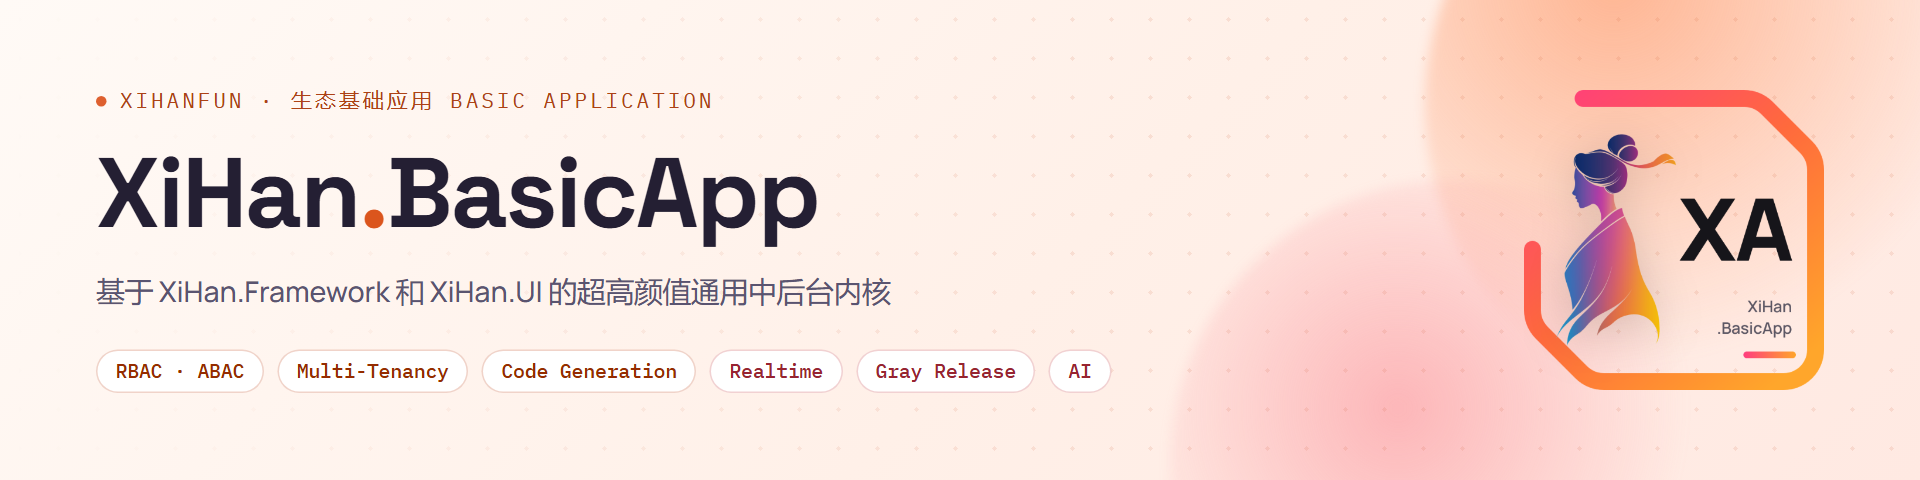
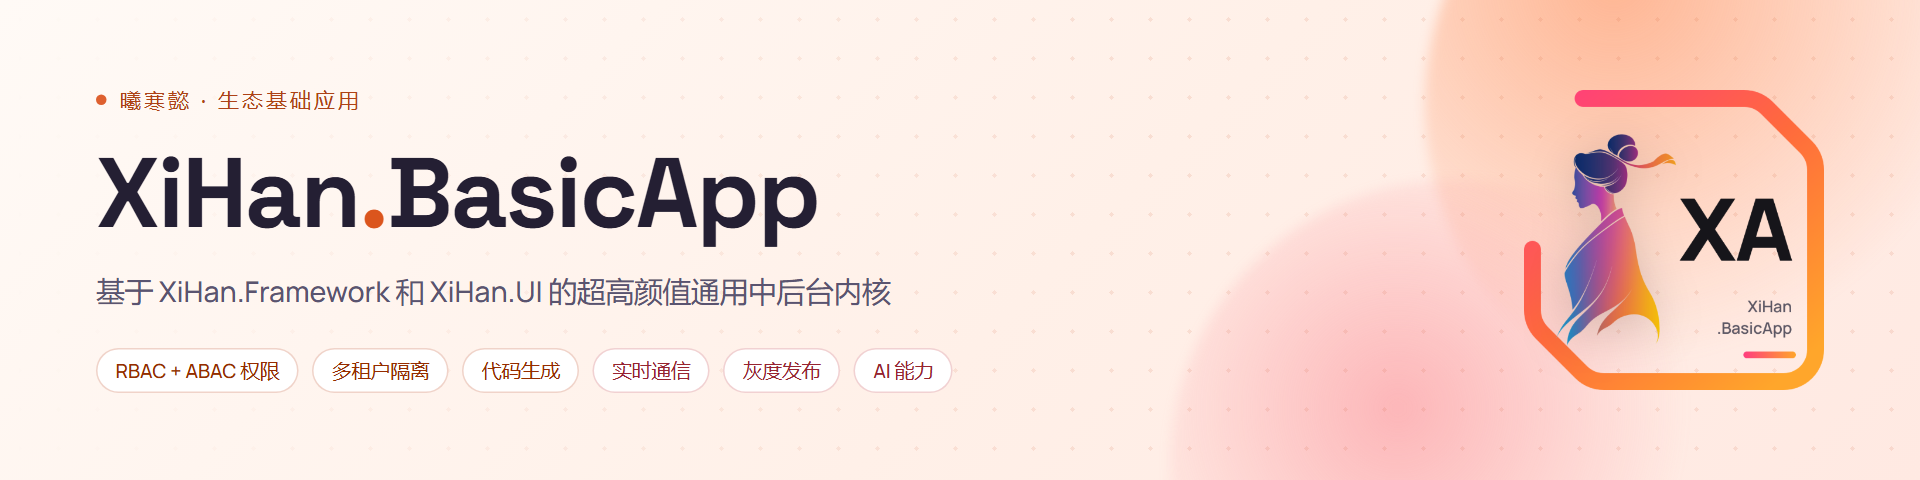
docs: 横幅改为中英文各三张：中文版生态名用曦寒懿、全中文标签，英文版另存 X?-Banner_en.png

Changed region(s): [[0.0625, 0.7188, 0.5625, 0.8125], [0.0625, 0.1875, 0.375, 0.25]]

diff --git a/other/XiHanFun-Banner.dc.html b/other/XiHanFun-Banner.dc.html
@@ -17,7 +17,7 @@
     a { color: oklch(0.55 0.18 295); }
     a:hover { color: oklch(0.48 0.19 295); }
 
-    /* 三张横幅共用一套版式，配色由各自的 data-banner 变量给出 */
+    /* 三个产品各一张中文、一张英文横幅，共用一套版式，配色由 data-banner 变量给出 */
     .banner { width: 1280px; height: 320px; position: relative; overflow: hidden; background: var(--bg); flex-shrink: 0; }
     .banner-blob { position: absolute; border-radius: 50%; filter: blur(4px); }
     .banner-blob-a { width: 420px; height: 420px; right: -90px; top: -140px; background: radial-gradient(circle at 30% 30%, var(--blob-a), transparent 62%); }
@@ -30,8 +30,11 @@
     .banner-title { font-family: 'Space Grotesk', sans-serif; font-weight: 700; font-size: 66px; line-height: 0.98; color: #241f33; letter-spacing: -0.02em; }
     .banner-title span { color: var(--accent); }
     .banner-tagline { font-size: 19px; color: var(--tagline); line-height: 1.45; font-weight: 500; }
+    .banner[data-lang="en"] .banner-tagline { font-size: 18px; }
     .banner-chips { display: flex; flex-wrap: wrap; gap: 9px; margin-top: 4px; }
-    .banner-chip { font-family: 'IBM Plex Mono', monospace; font-size: 13px; font-weight: 500; color: var(--chip-a); background: #fff; border: 1px solid var(--chip-a-line); padding: 5px 12px; border-radius: 999px; white-space: nowrap; }
+    .banner-chip { font-family: 'IBM Plex Mono', 'Microsoft YaHei UI', 'PingFang SC', monospace; font-size: 13px; font-weight: 500; color: var(--chip-a); background: #fff; border: 1px solid var(--chip-a-line); padding: 5px 12px; border-radius: 999px; white-space: nowrap; }
+    .banner[data-lang="zh"] .banner-chip { font-family: 'Manrope', 'Microsoft YaHei UI', 'PingFang SC', sans-serif; }
+    .banner[data-lang="zh"] .banner-eyebrow { font-family: 'Microsoft YaHei UI', 'PingFang SC', sans-serif; }
     .banner-chip-alt { color: var(--chip-b); border-color: var(--chip-b-line); }
     .banner-logo { flex-shrink: 0; width: 200px; height: 200px; }
     .banner-logo img { width: 100%; height: 100%; object-fit: contain; display: block; }
@@ -81,16 +84,91 @@
   </style>
 </helmet>
 
-<!-- =============== BANNER 1 · XiHan.Framework =============== -->
-<div class="banner" data-banner="framework">
+<!-- =============== 中文 · XiHan.Framework =============== -->
+<div class="banner" data-banner="framework" data-lang="zh">
   <div class="banner-blob banner-blob-a"></div>
   <div class="banner-blob banner-blob-b"></div>
   <div class="banner-dots"></div>
   <div class="banner-body">
     <div class="banner-text">
-      <div class="banner-eyebrow">XiHanFun · 生态后端基座 Backend Foundation</div>
+      <div class="banner-eyebrow">曦寒懿 · 生态后端基座</div>
       <div class="banner-title">XiHan<span>.</span>Framework</div>
       <div class="banner-tagline">快速、轻量、高效、用心的 .NET 现代模块化开发框架</div>
+      <div class="banner-chips">
+        <span class="banner-chip">.NET 原生优先</span>
+        <span class="banner-chip">模块化</span>
+        <span class="banner-chip">动态 API</span>
+        <span class="banner-chip banner-chip-alt">多租户</span>
+        <span class="banner-chip banner-chip-alt">工作流</span>
+        <span class="banner-chip banner-chip-alt">AI 与 MCP</span>
+      </div>
+    </div>
+    <div class="banner-logo">
+      <img src="logo/light/XiHan.Framework-512.png" alt="XiHan.Framework logo">
+    </div>
+  </div>
+</div>
+
+<!-- =============== 中文 · XiHan.UI =============== -->
+<div class="banner" data-banner="ui" data-lang="zh">
+  <div class="banner-blob banner-blob-a"></div>
+  <div class="banner-blob banner-blob-b"></div>
+  <div class="banner-dots"></div>
+  <div class="banner-body">
+    <div class="banner-text">
+      <div class="banner-eyebrow">曦寒懿 · 生态前端基座</div>
+      <div class="banner-title">XiHan<span>.</span>UI</div>
+      <div class="banner-tagline">快速、轻量、高效、用心的框架无关 Headless UI 组件库</div>
+      <div class="banner-chips">
+        <span class="banner-chip">设计系统</span>
+        <span class="banner-chip">多框架适配</span>
+        <span class="banner-chip">零依赖</span>
+        <span class="banner-chip banner-chip-alt">主题定制</span>
+        <span class="banner-chip banner-chip-alt">无障碍</span>
+        <span class="banner-chip banner-chip-alt">AI 组件</span>
+      </div>
+    </div>
+    <div class="banner-logo">
+      <img src="logo/light/XiHan.UI-512.png" alt="XiHan.UI logo">
+    </div>
+  </div>
+</div>
+
+<!-- =============== 中文 · XiHan.BasicApp =============== -->
+<div class="banner" data-banner="basicapp" data-lang="zh">
+  <div class="banner-blob banner-blob-a"></div>
+  <div class="banner-blob banner-blob-b"></div>
+  <div class="banner-dots"></div>
+  <div class="banner-body">
+    <div class="banner-text">
+      <div class="banner-eyebrow">曦寒懿 · 生态基础应用</div>
+      <div class="banner-title">XiHan<span>.</span>BasicApp</div>
+      <div class="banner-tagline">基于 XiHan.Framework 和 XiHan.UI 的超高颜值通用中后台内核</div>
+      <div class="banner-chips">
+        <span class="banner-chip">RBAC + ABAC 权限</span>
+        <span class="banner-chip">多租户隔离</span>
+        <span class="banner-chip">代码生成</span>
+        <span class="banner-chip banner-chip-alt">实时通信</span>
+        <span class="banner-chip banner-chip-alt">灰度发布</span>
+        <span class="banner-chip banner-chip-alt">AI 能力</span>
+      </div>
+    </div>
+    <div class="banner-logo">
+      <img src="logo/light/XiHan.BasicApp-512.png" alt="XiHan.BasicApp logo">
+    </div>
+  </div>
+</div>
+
+<!-- =============== English · XiHan.Framework =============== -->
+<div class="banner" data-banner="framework" data-lang="en">
+  <div class="banner-blob banner-blob-a"></div>
+  <div class="banner-blob banner-blob-b"></div>
+  <div class="banner-dots"></div>
+  <div class="banner-body">
+    <div class="banner-text">
+      <div class="banner-eyebrow">XiHanFun · Backend Foundation</div>
+      <div class="banner-title">XiHan<span>.</span>Framework</div>
+      <div class="banner-tagline">A fast, lightweight, efficient and thoughtfully built modern modular framework for .NET</div>
       <div class="banner-chips">
         <span class="banner-chip">.NET Native First</span>
         <span class="banner-chip">Modular</span>
@@ -106,16 +184,16 @@
   </div>
 </div>
 
-<!-- =============== BANNER 2 · XiHan.UI =============== -->
-<div class="banner" data-banner="ui">
+<!-- =============== English · XiHan.UI =============== -->
+<div class="banner" data-banner="ui" data-lang="en">
   <div class="banner-blob banner-blob-a"></div>
   <div class="banner-blob banner-blob-b"></div>
   <div class="banner-dots"></div>
   <div class="banner-body">
     <div class="banner-text">
-      <div class="banner-eyebrow">XiHanFun · 生态前端基座 Frontend Foundation</div>
+      <div class="banner-eyebrow">XiHanFun · Frontend Foundation</div>
       <div class="banner-title">XiHan<span>.</span>UI</div>
-      <div class="banner-tagline">快速、轻量、高效、用心的框架无关 Headless UI 组件库</div>
+      <div class="banner-tagline">A fast, lightweight, efficient and thoughtfully built framework-agnostic headless UI component library</div>
       <div class="banner-chips">
         <span class="banner-chip">Design System</span>
         <span class="banner-chip">Vue · React · Web Components</span>
@@ -131,16 +209,16 @@
   </div>
 </div>
 
-<!-- =============== BANNER 3 · XiHan.BasicApp =============== -->
-<div class="banner" data-banner="basicapp">
+<!-- =============== English · XiHan.BasicApp =============== -->
+<div class="banner" data-banner="basicapp" data-lang="en">
   <div class="banner-blob banner-blob-a"></div>
   <div class="banner-blob banner-blob-b"></div>
   <div class="banner-dots"></div>
   <div class="banner-body">
     <div class="banner-text">
-      <div class="banner-eyebrow">XiHanFun · 生态基础应用 Basic Application</div>
+      <div class="banner-eyebrow">XiHanFun · Basic Application</div>
       <div class="banner-title">XiHan<span>.</span>BasicApp</div>
-      <div class="banner-tagline">基于 XiHan.Framework 和 XiHan.UI 的超高颜值通用中后台内核</div>
+      <div class="banner-tagline">A beautifully crafted general-purpose admin kernel built on XiHan.Framework and XiHan.UI</div>
       <div class="banner-chips">
         <span class="banner-chip">RBAC · ABAC</span>
         <span class="banner-chip">Multi-Tenancy</span>
